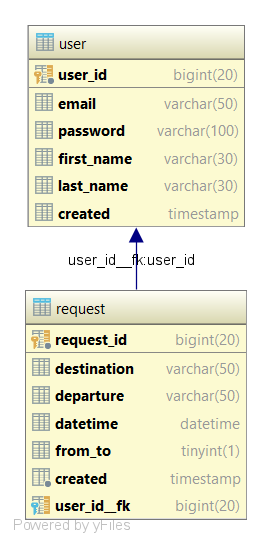
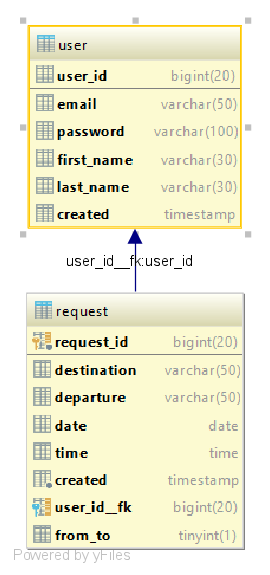
minor improvements and bugfix
* fixed bug at login
* directs user to login on saved.php if not logged in
* updated erd

Changed region(s): [[0.0593, 0.0312, 0.9481, 0.9982]]

diff --git a/travelr/saved.php b/travelr/saved.php
@@ -36,80 +36,85 @@ require_once("include/databaseFunctions.php");
 <?php
 require_once("header.php");
 if (@testDatabaseConnection()) {
+    if (isset($_SESSION['uid'])) {
 
-if (isset($_GET['delete'])) {
-    $owner = getRequestOwner($_GET['delete']);
-if ($owner['owner'] == $_SESSION['uid']) {
-    deleteRequest($_GET['delete']);
-    header('Location: saved.php');
-} else {
+    if (isset($_GET['delete'])) {
+        $owner = getRequestOwner($_GET['delete']);
+    if ($owner['owner'] == $_SESSION['uid']) {
+        deleteRequest($_GET['delete']);
+        header('Location: saved.php');
+    } else {
+        ?>
+        <script>
+            window.alert("You are not permitted to delete this object!")
+        </script>
+    <?php
+    }
+    }
     ?>
-    <script>
-        window.alert("You are not permitted to delete this object!")
-    </script>
-<?php
-}
-}
-?>
-    <div class="content center padding-16">
-        <div class="container white padding-16" id="table_border" style="padding-bottom: 16px !important;">
-            <h2 style="margin: 0">Saved</h2>
-            <div class="row-padding" style="overflow-x: auto;">
-                <table class="table connections">
-                    <thead>
-                    <tr>
-                        <th>From</th>
-                        <th>To</th>
-                        <th class="date_time">Date</th>
-                        <th class="date_time">Time</th>
-                        <th>View</th>
-                        <th>Delete</th>
-                    </tr>
-                    </thead>
-                    <?php
-                    $requests = getAllRequests($_SESSION['uid']);
-                    foreach ($requests
+        <div class="content center padding-16">
+            <div class="container white padding-16" id="table_border" style="padding-bottom: 16px !important;">
+                <h2 style="margin: 0">Saved</h2>
+                <div class="row-padding" style="overflow-x: auto;">
+                    <table class="table connections">
+                        <thead>
+                        <tr>
+                            <th>From</th>
+                            <th>To</th>
+                            <th class="date_time">Date</th>
+                            <th class="date_time">Time</th>
+                            <th>View</th>
+                            <th>Delete</th>
+                        </tr>
+                        </thead>
+                        <?php
+                        $requests = getAllRequests($_SESSION['uid']);
+                        foreach ($requests
 
-                    as $request) {
-                    $from = $request['departure'];
-                    $to = $request['destination'];
-                    $date = $request['date'];
-                    $time = $request['time'];
-                    $fromto = $request['fromto'];
-                    ?>
-                    <tbody>
-                    <tr class="connection" data-href="index.php">
-                        <td>
-                            <?php echo $from ?>
-                        </td>
-                        <td>
-                            <?php echo $to ?>
-                        </td>
-                        <td class="date_time">
-                            <?php echo date("d.m.Y", strtotime($date)) ?>
-                        </td>
-                        <td class="date_time">
-                            <?php echo date("H:i", strtotime($time)) ?>
-                        </td>
-                        <td class="center">
-                            <a id="connection_button"
-                               href="details.php?<?php echo htmlentities(http_build_query(['from' => $from, 'to' => $to, 'fromto' => $fromto, 'date' => date("d.m.Y", strtotime($date)), 'time' => date("H:i", strtotime($time))]), ENT_QUOTES, 'UTF-8'); ?>">
-                                <img border="0" alt="View" src="images/eye.png" width="25" height="25">
-                            </a>
-                        </td>
-                        <td class="center">
-                            <a href="saved.php?delete=<?php echo $request['request_id'] ?>">
-                                <img border="0" alt="Delete" src="images/trash.png" width="25" height="25">
-                        </td>
-                    </tr>
+                        as $request) {
+                        $from = $request['departure'];
+                        $to = $request['destination'];
+                        $date = $request['date'];
+                        $time = $request['time'];
+                        $fromto = $request['fromto'];
+                        ?>
+                        <tbody>
+                        <tr class="connection" data-href="index.php">
+                            <td>
+                                <?php echo $from ?>
+                            </td>
+                            <td>
+                                <?php echo $to ?>
+                            </td>
+                            <td class="date_time">
+                                <?php echo date("d.m.Y", strtotime($date)) ?>
+                            </td>
+                            <td class="date_time">
+                                <?php echo date("H:i", strtotime($time)) ?>
+                            </td>
+                            <td class="center">
+                                <a id="connection_button"
+                                   href="details.php?<?php echo htmlentities(http_build_query(['from' => $from, 'to' => $to, 'fromto' => $fromto, 'date' => date("d.m.Y", strtotime($date)), 'time' => date("H:i", strtotime($time))]), ENT_QUOTES, 'UTF-8'); ?>">
+                                    <img border="0" alt="View" src="images/eye.png" width="25" height="25">
+                                </a>
+                            </td>
+                            <td class="center">
+                                <a href="saved.php?delete=<?php echo $request['request_id'] ?>">
+                                    <img border="0" alt="Delete" src="images/trash.png" width="25" height="25">
+                            </td>
+                        </tr>
 
-                    <?php
-                    }
-                    ?>
+                        <?php
+                        }
+                        ?>
+                </div>
             </div>
         </div>
-    </div>
-    <?php
+        <?php
+    }
+    else {
+        header("Location: login.php");
+    }
 } else {
     require_once("databaseError.php");
 }

diff --git a/travelr/include/databaseFunctions.php b/travelr/include/databaseFunctions.php
@@ -24,10 +24,10 @@ if ("$_SERVER[REQUEST_URI]" == "/m226project/travelr/include/databaseFunctions.p
             if (password_verify($password, $user['password'])) {
                 return $user[0];
             } else {
-                return 0;
+                return null;
             }
         } else {
-            return 0;
+            return null;
         }
     }
 

diff --git a/travelr/config/databaseConfig.php b/travelr/config/databaseConfig.php
@@ -1,8 +1,7 @@
 <?php
-
 return array(
     'host' => 'localhost',
-    'username' => 'root',
-    'password' => '',
+    'username' => 'travelruser',
+    'password' => '123qweasd',
     'database' => 'travelr'
 );
